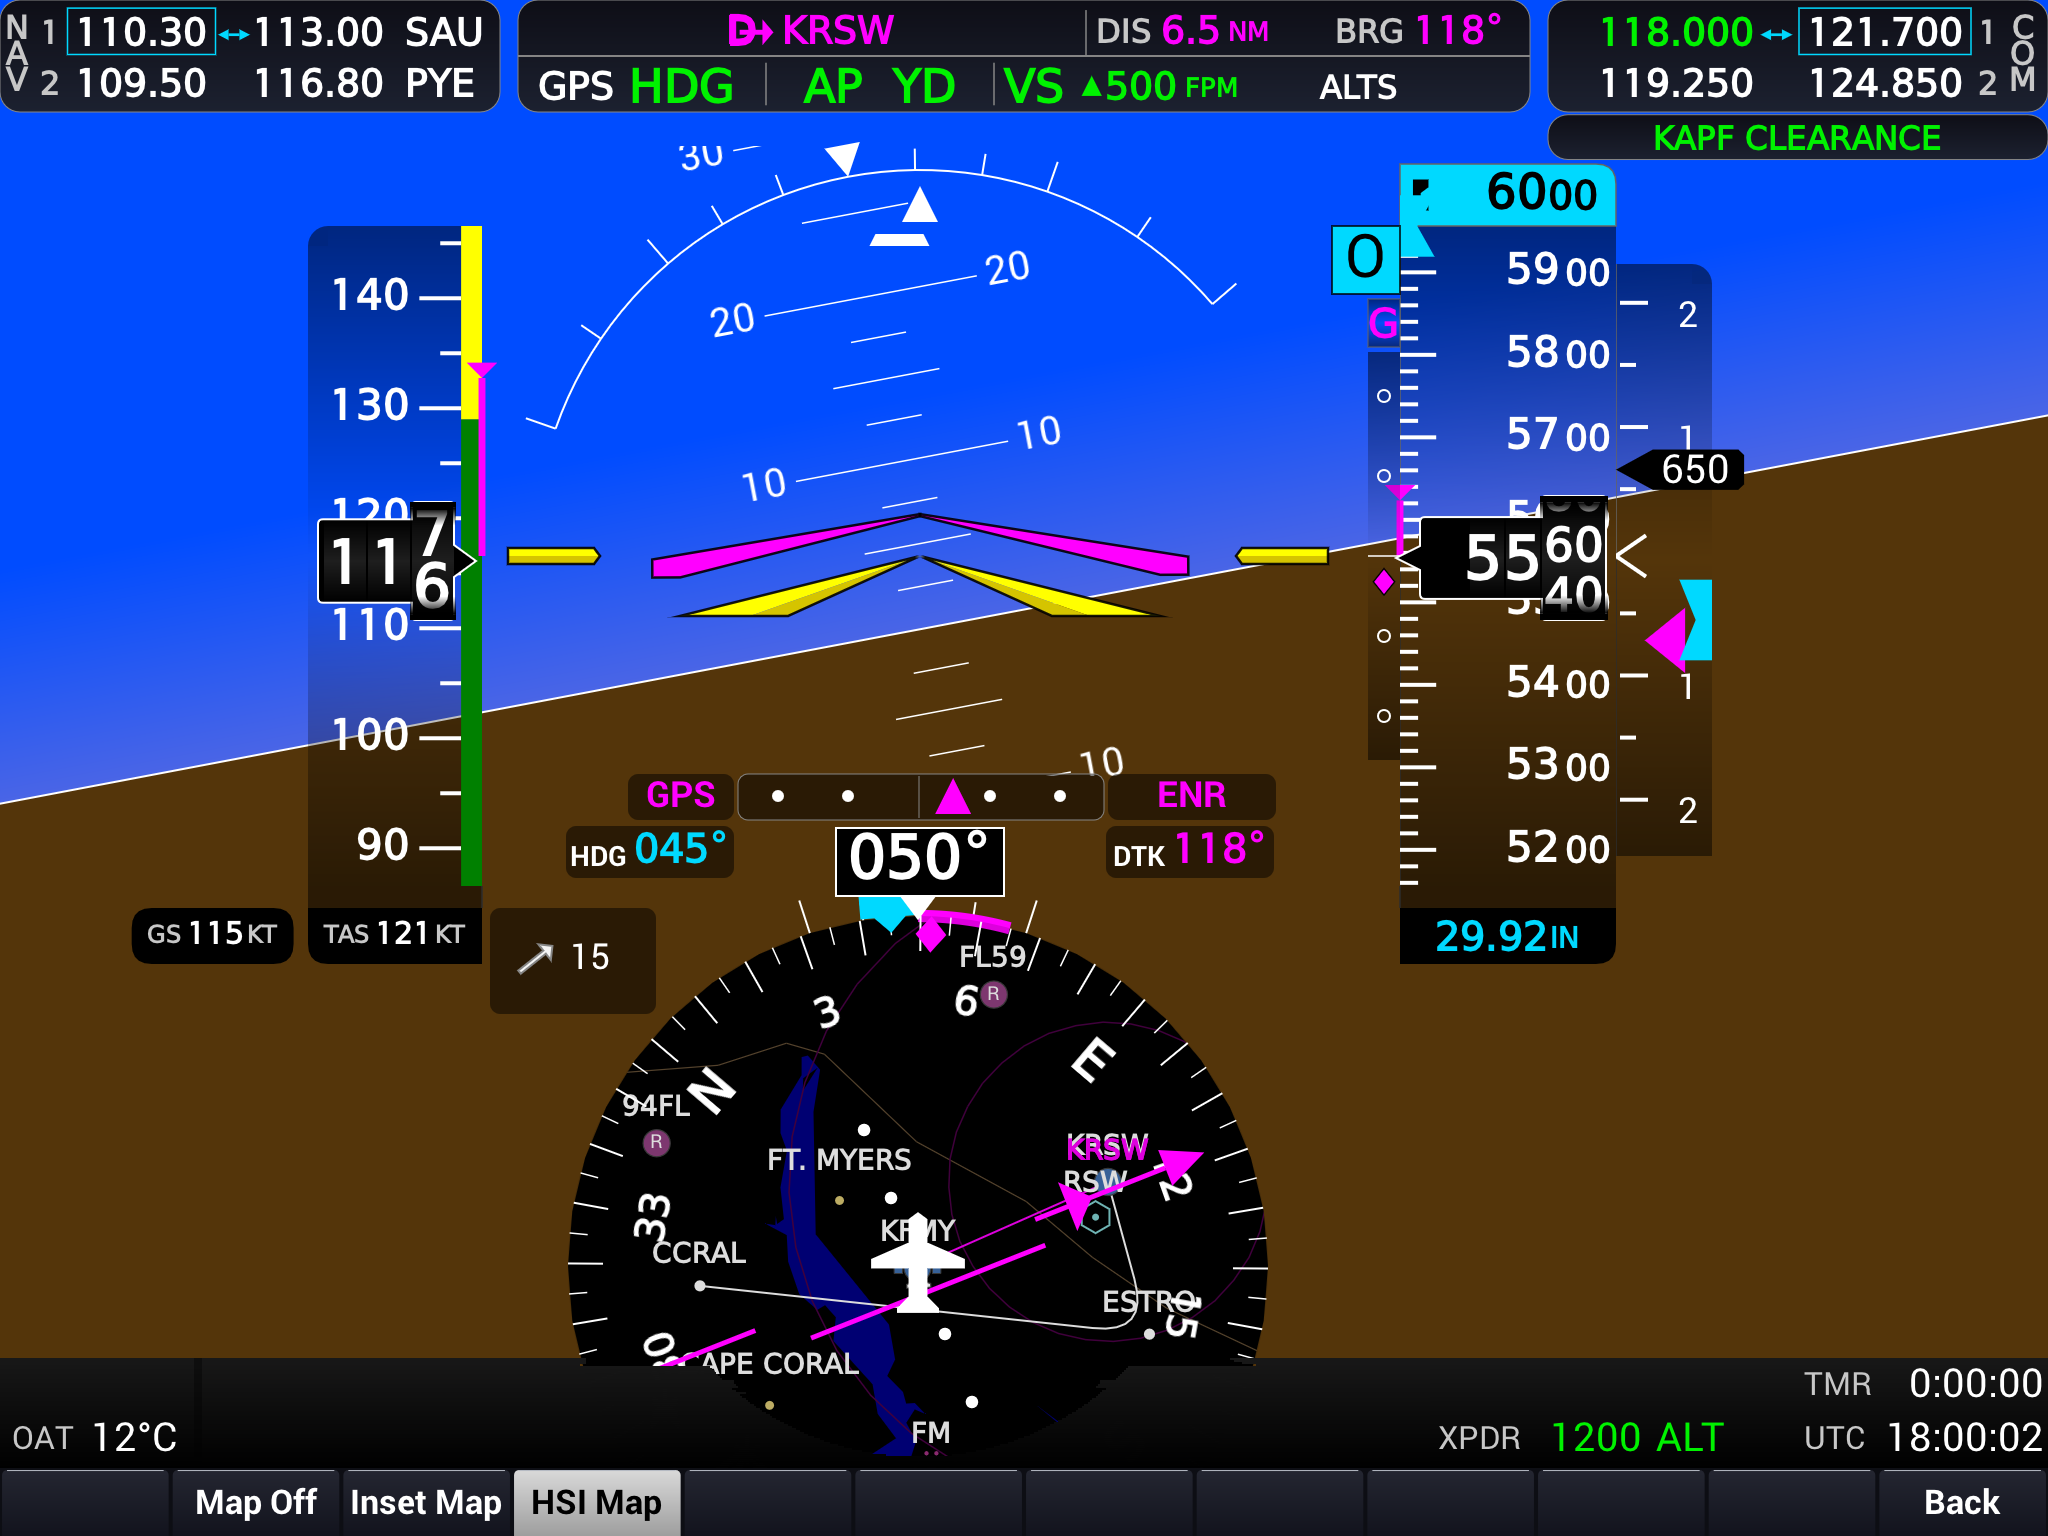
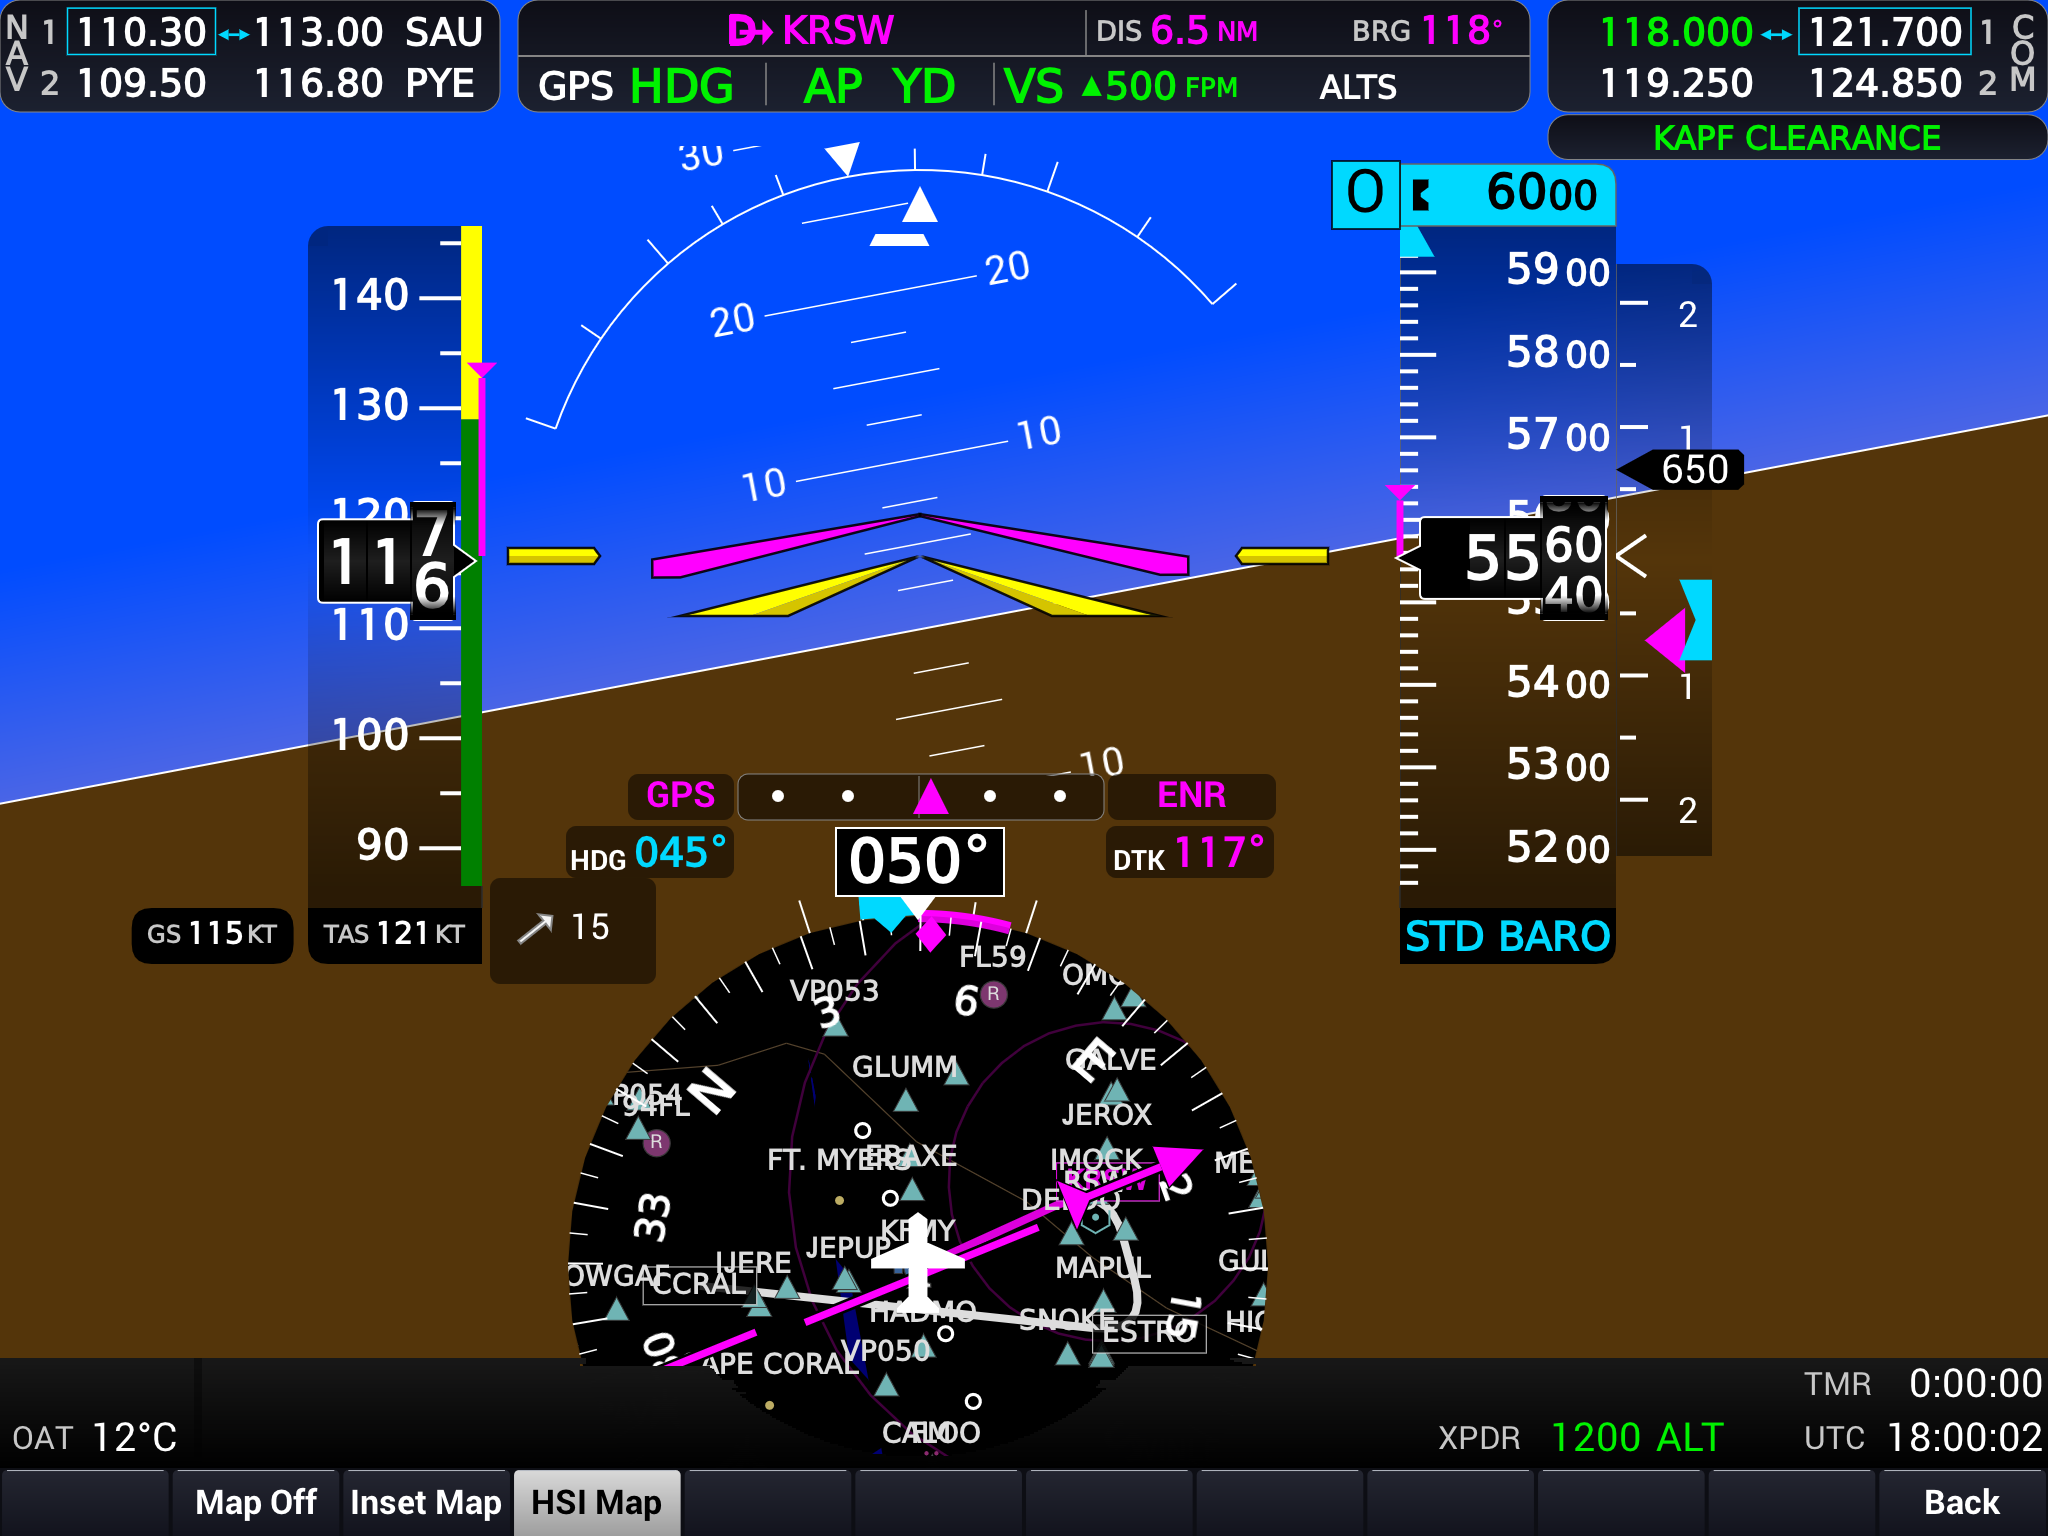
Refresh README PFD/MFD screenshots and remove the status checklist.
Recapture the PFD (HSI map) and MFD (Navigation Map) hero images from
the standalone --screenshot tool, and drop the "Status / next steps"
to-do list (keeping the G1000 reference note as its own section).

diff --git a/README.md b/README.md
@@ -510,127 +510,7 @@ Override the path explicitly on the standalone shell:
 ./build/shell-standalone/avionics-standalone --obstacles /path/to/DOF.CSV
 ```
 
-## Status / next steps
-
-The shared core renders a basic PFD (attitude indicator,
-airspeed/altitude/heading readouts) through the abstract renderer, and the
-standalone shell now shows it live in a GLFW window via the NanoVG backend,
-driven by either `MockDataSource` or a live `XPlaneConnection`.
-
-Still to wire up:
-
-- [x] NanoVG renderer backend implementing `avionics::Renderer` (shared by both
-      shells, bound to each shell's GPU context).
-- [x] GLFW window + real 60 fps loop in `shell-standalone`.
-- [x] Live X-Plane data source for the standalone shell (`XPlaneConnection` over
-      the UDP RREF protocol) behind a generic `SimulatorConnection` interface,
-      with boot + connection-lost (red X) screens and a mock/live toggle.
-- [x] Per-instrument reversionary red X. AHRS failure X's the attitude window
-      ("AHRS") and HSI compass ("HDG"); air data computer failure X's the
-      airspeed, altitude, and vertical-speed tapes. Driven live from X-Plane's
-      `sim/operation/failures/rel_ss_*` datarefs.
-- [x] Softkey bar (`SoftkeyController`) driven by a row of twelve physical
-      softkey selection keys on the bezel below the screen, like the real GDU
-      bezel: the on-screen bar is labels only (white on black, selected keys
-      black-on-gray per the Pilot's Guide), and all interaction goes through
-      the bezel keys. Pressing "Alerts" toggles the Alerts/messages window,
-      which lists active alerts (color-coded by severity) derived from the
-      sensor-validity flags.
-- [x] Softkey menu state machine: the bar is a menu stack, so the root menu
-      opens submenus (Map/HSI, PFD Opt, XPDR), each with a `Back` key that pops
-      back up. Display-option keys are toggles that stay highlighted while on,
-      and the XPDR submenu is a radio group (STBY/ON/ALT/GND).
-- [x] MFD page groups (MAP / WPT / AUX / NRST / FPL) with per-group page
-      memory, modeled on the G1000 Pilot's Guide for Cessna Nav III. The
-      on-screen dual FMS knob works like the real one (large knob selects the
-      page group, small knob steps pages within it), the group softkeys also
-      select groups (pressing the active group's key again steps to its next
-      page), and the FPL bezel key
-      toggles the Active Flight Plan page. Pages: Navigation Map; Airport /
-      Intersection / NDB / VOR Information; Trip Planning, GPS Status,
-      System Status; Nearest Airports / Intersections / NDB / VOR /
-      Airspaces; Active Flight Plan. A page group/page indicator box sits
-      above the softkeys, and navaid frequencies are parsed from
-      `earth_nav.dat` for the information pages.
-- [x] EIS engine strip on the left edge of every MFD page (Cessna 172S fit):
-      RPM dial with green/red arcs, FFLOW / OIL PRES / OIL TEMP / EGT / VAC
-      bar indicators, per-tank FUEL QTY, ENG HRS, and the BUS VOLTS / BATT
-      AMPS electrical rows — driven live from X-Plane's engine, fuel, and
-      electrical datarefs (animated values on the mock feed).
-- [x] PFD pop-up windows in the lower right, one at a time like the real unit:
-      Timer/References (`Tmr/Ref`) with the generic timer (Start?/Stop?/Reset?
-      via ENT, shown as a `TMR` field in the bottom info bar while running),
-      V-speed reference bug On/Off toggles honored by the airspeed tape, and
-      barometric minimums; Nearest Airports (`Nearest`) listing distance-sorted
-      airports with bearing/distance, COM frequency, and longest runway,
-      scrolled with the FMS knob. The large FMS knob moves the References
-      cursor, the small knob steps the MINS altitude, ENT activates fields,
-      and CLR closes the window, per the Pilot's Guide.
-- [x] Altimeter alerting per the NXi Pilot's Guide: barometric minimums (BARO
-      MIN box at the bottom left of the altimeter plus a tape bug, staging
-      cyan -> white within 100 ft -> amber at minimums) and Selected Altitude
-      alerting (the readout flashes black-on-cyan within 1000 ft, cyan within
-      200 ft, and amber on a post-capture deviation).
-- [x] Transponder functions: `Ident` annunciates a green IDNT in the
-      transponder box for 18 seconds (inoperative in Standby, reverts the XPDR
-      softkeys to the top level), and the XPDR > Code digit keys show the
-      in-progress squawk entry in the data box with BKSP support. Committing
-      the completed code to the radio still needs a sim command channel, like
-      the VFR and STD Baro keys.
-- [x] SimBrief integration (standalone shell): the MFD AUX – SIMBRIEF page
-      fetches the account's latest OFP over HTTPS (SimBrief's public fetcher,
-      JSON v2) and loads its geocoded navlog as the active flight plan on both
-      feeds. The numeric Pilot ID is typed on XPDR-style digit softkeys (`ID`
-      key; ENT commits) and persists across runs; `FETCH` re-downloads on
-      demand, and a saved ID auto-fetches at startup (`--simbrief-id` to
-      override). The page shows fetch status plus the OFP's origin/destination,
-      generation time, and filed route. Needs libcurl (bundled with macOS) and
-      nlohmann/json (fetched at configure time).
-- [x] Flight plan editing on the FPL – Active Flight Plan page with the dual
-      FMS knob, following the Pilot's Guide procedures: push the knob for the
-      selection cursor, the large knob highlights a leg, and turning the small
-      knob opens the Waypoint Information window where identifiers are spelled
-      character by character (small knob selects the character starting at K,
-      large knob moves the cursor) with database spell-ahead auto-fill; ENT
-      inserts the waypoint ahead of the highlighted row (or appends on the
-      blank slot, building a plan from scratch). CLR on a leg opens the
-      `REMOVE <wpt>?` OK/CANCEL confirmation, and MENU offers Delete Flight
-      Plan. Idents resolve against the parsed nav database (airports, VORs,
-      NDBs, fixes; nearest wins on duplicates), and edits become the active
-      plan on both feeds — the mock keeps flying toward the same waypoint, and
-      on the X-Plane feed the edit is programmed into the sim's FMS through the
-      flight-plan bridge (display-only override under `--no-fms-write`).
-- [x] GPS Direct-To: the Direct-To bezel key opens the Direct To window over
-      any MFD page, pre-filled with the active waypoint (or the highlighted
-      flight-plan leg). The FMS knob spells the destination with the same
-      database spell-ahead entry; the first ENT confirms the waypoint and arms
-      the `ACTIVATE?` prompt, the second ENT engages the direct course. The map
-      then draws the magenta direct-to leg from the aircraft straight to the
-      waypoint (over the white flight plan); the mock flies it and sequences
-      back onto the route on arrival; on the X-Plane feed the flight-plan bridge
-      engages a present-position Direct-To in the sim's own FMS (or shows the
-      course only under `--no-fms-write`).
-- [x] Live FMS flight-plan bridge: the in-sim plugin reads the active FMS route
-      (reachable only through the plugin SDK, not the UDP/Web API transports)
-      and serves it over UDP to the standalone shell, which draws the real
-      in-cockpit route on the map and FPL page automatically. Falls back to a
-      `.fms` file or SimBrief OFP when the plugin isn't installed.
-- [x] FMS write-back over the same bridge: FPL-page edits, SimBrief OFP loads,
-      and Direct-To activations are programmed into X-Plane's FMS (navaid or
-      lat/lon entries, present-position Direct-To), applied on the sim thread
-      with an acknowledgement + retry. `--no-fms-write` keeps edits
-      display-only.
-- [x] Real datalink **NEXRAD** map overlay: X-Plane has no NEXRAD API, so the
-      overlay pulls live public weather-radar tiles (RainViewer composite
-      reflectivity) over HTTPS on a background thread and resamples them onto the
-      map around the aircraft. It is therefore **real current weather for the
-      aircraft's position and may not match the sim's weather**. Works in both
-      shells (needs internet); the dedicated Weather Radar page still uses the
-      onboard radar. Needs libcurl (bundled with macOS).
-- [ ] Bind the NanoVG renderer inside the plugin via the X-Plane Avionics
-      Device API (`XPLMCreateAvionicsEx`), replacing the legacy draw callback.
-
-### G1000 reference
+## G1000 reference
 
 Replicate **behavior and layout** from public Garmin documentation (Pilot's
 Guide / Cockpit Reference Guide) and the free G1000 PC Trainer. Do **not** copy
